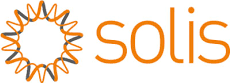
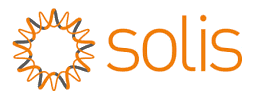
Actualiza portada con hero de atardecer

diff --git a/src/App.jsx b/src/App.jsx
@@ -1373,15 +1373,16 @@ export default function SakiaraLandingPage() {
         <div className="hero-banner-image" aria-hidden="true" />
         <div className="hero-banner-inner">
           <div className="hero-banner-copy">
+            <p className="hero-kicker">Cotización solar clara y rápida</p>
             <h1 className="hero-banner-title">
               <span>Convierte tu consumo</span>
               <span>en una inversión</span>
             </h1>
-            <p className="hero-banner-text">
-              Cotización solar clara, profesional y rápida.
-            </p>
             <p className="hero-banner-slogan">
               Ejecutamos proyectos, desarrollamos inversiones.
+            </p>
+            <p className="hero-banner-text">
+              Evalúa instalación o mantenimiento en pocos pasos.
             </p>
 
             <div className="hero-brand-block">
@@ -1392,12 +1393,12 @@ export default function SakiaraLandingPage() {
               <div className="hero-brand-row">
                 <img
                   className="hero-brand-logo huawei"
-                  src="/marcas/huawei-clean.png"
+                  src="/marcas/huawei.png"
                   alt="Huawei"
                 />
                 <img
                   className="hero-brand-logo solis"
-                  src="/marcas/solis-clean.png"
+                  src="/marcas/solis.png"
                   alt="Solis"
                 />
               </div>
@@ -2549,11 +2550,11 @@ export default function SakiaraLandingPage() {
 
         .hero-banner {
           position: relative;
-          min-height: 500px;
+          min-height: 460px;
           border-radius: 34px;
           overflow: hidden;
-          background: #111827;
-          box-shadow: 0 24px 50px rgba(17, 24, 39, 0.14);
+          background: #0f172a;
+          box-shadow: 0 28px 56px rgba(15, 23, 42, 0.16);
           isolation: isolate;
         }
 
@@ -2561,15 +2562,13 @@ export default function SakiaraLandingPage() {
           position: absolute;
           inset: 0;
           background-image:
-            linear-gradient(180deg, rgba(8, 14, 29, 0.26) 0%, rgba(8, 14, 29, 0.38) 100%),
-            linear-gradient(90deg, rgba(8, 14, 29, 0.68) 0%, rgba(8, 14, 29, 0.46) 26%, rgba(8, 14, 29, 0.20) 56%, rgba(8, 14, 29, 0.12) 100%),
-            linear-gradient(135deg, rgba(241, 212, 51, 0.18) 0%, rgba(241, 212, 51, 0.00) 38%),
-            radial-gradient(circle at 84% 22%, rgba(241, 180, 38, 0.62) 0%, rgba(241, 180, 38, 0.00) 20%),
-            url('/home/sakiara-hero-wide.jpg');
+            linear-gradient(180deg, rgba(9, 14, 26, 0.42) 0%, rgba(9, 14, 26, 0.18) 34%, rgba(9, 14, 26, 0.30) 100%),
+            linear-gradient(0deg, rgba(10, 16, 28, 0.16) 0%, rgba(10, 16, 28, 0.08) 100%),
+            radial-gradient(circle at 50% 34%, rgba(255, 204, 82, 0.22) 0%, rgba(255, 204, 82, 0.00) 26%),
+            url('/home/sakiara-hero-sunset-wide.jpg');
           background-size: cover;
-          background-position: center center;
-          transform: scale(1.04);
-          filter: saturate(1.08) contrast(1.02) brightness(0.92);
+          background-position: center 44%;
+          transform: scale(1.02);
         }
 
         .hero-banner::after {
@@ -2590,59 +2589,65 @@ export default function SakiaraLandingPage() {
           display: flex;
           align-items: center;
           justify-content: center;
-          min-height: 500px;
-          padding: 54px 40px 126px;
+          min-height: 460px;
+          padding: 58px 42px 126px;
         }
 
         .hero-banner-copy {
-          max-width: 940px;
+          max-width: 860px;
           width: 100%;
           text-align: center;
           margin: 0 auto;
         }
 
         .hero-kicker {
-          display: none;
+          margin: 0 0 12px;
+          font-size: 11px;
+          line-height: 1.2;
+          letter-spacing: 0.19em;
+          text-transform: uppercase;
+          font-weight: 800;
+          color: rgba(255, 255, 255, 0.80);
+          text-shadow: 0 2px 10px rgba(0, 0, 0, 0.25);
         }
 
         .hero-banner-title {
           margin: 0 auto;
-          max-width: 860px;
-          font-size: clamp(52px, 7vw, 92px);
-          line-height: 0.94;
+          max-width: 920px;
+          font-size: clamp(46px, 6.3vw, 82px);
+          line-height: 0.96;
           letter-spacing: -0.055em;
-          font-weight: 860;
+          font-weight: 880;
           color: #ffffff;
           text-wrap: balance;
-          text-shadow: 0 8px 28px rgba(0, 0, 0, 0.26);
+          text-shadow: 0 6px 26px rgba(0, 0, 0, 0.32);
         }
 
         .hero-banner-title span {
           display: block;
         }
 
-        .hero-banner-text {
-          margin: 18px auto 0;
-          max-width: 700px;
-          font-size: clamp(20px, 2.3vw, 30px);
-          line-height: 1.22;
-          color: rgba(255, 255, 255, 0.96);
-          font-weight: 600;
-          text-shadow: 0 6px 22px rgba(0, 0, 0, 0.20);
-        }
-
         .hero-banner-slogan {
-          margin: 14px auto 0;
+          margin: 18px auto 0;
           max-width: 760px;
-          font-size: clamp(16px, 1.7vw, 21px);
-          line-height: 1.38;
+          font-size: clamp(18px, 2.2vw, 23px);
+          line-height: 1.34;
           color: #f1d433;
           font-weight: 700;
-          text-shadow: 0 4px 16px rgba(0, 0, 0, 0.18);
+          text-shadow: 0 4px 18px rgba(0, 0, 0, 0.28);
+        }
+
+        .hero-banner-text {
+          margin: 10px auto 0;
+          max-width: 560px;
+          font-size: 18px;
+          line-height: 1.55;
+          color: rgba(255, 255, 255, 0.93);
+          text-shadow: 0 3px 16px rgba(0, 0, 0, 0.28);
         }
 
         .hero-brand-block {
-          margin-top: 30px;
+          margin-top: 28px;
           display: flex;
           flex-direction: column;
           align-items: center;
@@ -2650,25 +2655,27 @@ export default function SakiaraLandingPage() {
         }
 
         .hero-brand-label {
-          font-size: 12px;
+          font-size: 11px;
           line-height: 1.2;
-          letter-spacing: 0.20em;
+          letter-spacing: 0.18em;
           text-transform: uppercase;
           font-weight: 800;
-          color: rgba(255, 255, 255, 0.78);
-          text-shadow: 0 3px 12px rgba(0, 0, 0, 0.16);
+          color: rgba(255, 255, 255, 0.74);
+          text-shadow: 0 2px 10px rgba(0, 0, 0, 0.24);
         }
 
         .hero-brand-row {
-          display: flex;
-          gap: 28px;
-          flex-wrap: wrap;
-          justify-content: center;
+          display: inline-flex;
           align-items: center;
-        }
-
-        .hero-brand-chip {
-          display: none;
+          justify-content: center;
+          gap: 26px;
+          flex-wrap: wrap;
+          padding: 12px 22px;
+          border-radius: 999px;
+          background: rgba(11, 18, 32, 0.18);
+          border: 1px solid rgba(255, 255, 255, 0.12);
+          backdrop-filter: blur(4px);
+          box-shadow: 0 16px 30px rgba(0, 0, 0, 0.14);
         }
 
         .hero-brand-logo {
@@ -2676,15 +2683,15 @@ export default function SakiaraLandingPage() {
           width: auto;
           max-width: 100%;
           object-fit: contain;
-          filter: drop-shadow(0 10px 18px rgba(8, 14, 29, 0.20));
+          filter: drop-shadow(0 6px 14px rgba(0, 0, 0, 0.22));
         }
 
         .hero-brand-logo.huawei {
-          height: 54px;
+          height: 30px;
         }
 
         .hero-brand-logo.solis {
-          height: 42px;
+          height: 27px;
         }
 
         .home-services-wrap {
@@ -3893,8 +3900,8 @@ export default function SakiaraLandingPage() {
           }
 
           .hero-banner-image {
-            background-position: center center;
-            transform: scale(1.08);
+            background-position: center 46%;
+            transform: scale(1.05);
           }
 
           .hero-banner::after {
@@ -3906,7 +3913,7 @@ export default function SakiaraLandingPage() {
 
           .hero-banner-inner {
             min-height: 380px;
-            padding: 34px 18px 98px;
+            padding: 34px 20px 98px;
             align-items: center;
             justify-content: center;
           }
@@ -3917,30 +3924,31 @@ export default function SakiaraLandingPage() {
           }
 
           .hero-kicker {
-            display: none;
+            margin-bottom: 10px;
+            font-size: 10px;
+            letter-spacing: 0.15em;
           }
 
           .hero-banner-title {
-            font-size: 48px;
-            line-height: 0.95;
+            font-size: 46px;
+            line-height: 0.96;
             max-width: 340px;
             margin-left: auto;
             margin-right: auto;
           }
 
-          .hero-banner-text {
-            font-size: 17px;
-            line-height: 1.28;
+          .hero-banner-slogan {
+            margin-top: 14px;
+            font-size: 16px;
             max-width: 300px;
             margin-left: auto;
             margin-right: auto;
-            margin-top: 16px;
           }
 
-          .hero-banner-slogan {
-            margin-top: 12px;
+          .hero-banner-text {
             font-size: 15px;
-            max-width: 320px;
+            line-height: 1.5;
+            max-width: 280px;
             margin-left: auto;
             margin-right: auto;
           }
@@ -3950,25 +3958,17 @@ export default function SakiaraLandingPage() {
             align-items: center;
           }
 
-          .hero-brand-label {
-            font-size: 10px;
-            letter-spacing: 0.16em;
-          }
-
           .hero-brand-row {
-            gap: 16px;
-          }
-
-          .hero-brand-chip {
-            display: none;
+            gap: 18px;
+            padding: 10px 16px;
           }
 
           .hero-brand-logo.huawei {
-            height: 34px;
+            height: 24px;
           }
 
           .hero-brand-logo.solis {
-            height: 27px;
+            height: 22px;
           }
 
           .home-services-wrap {
